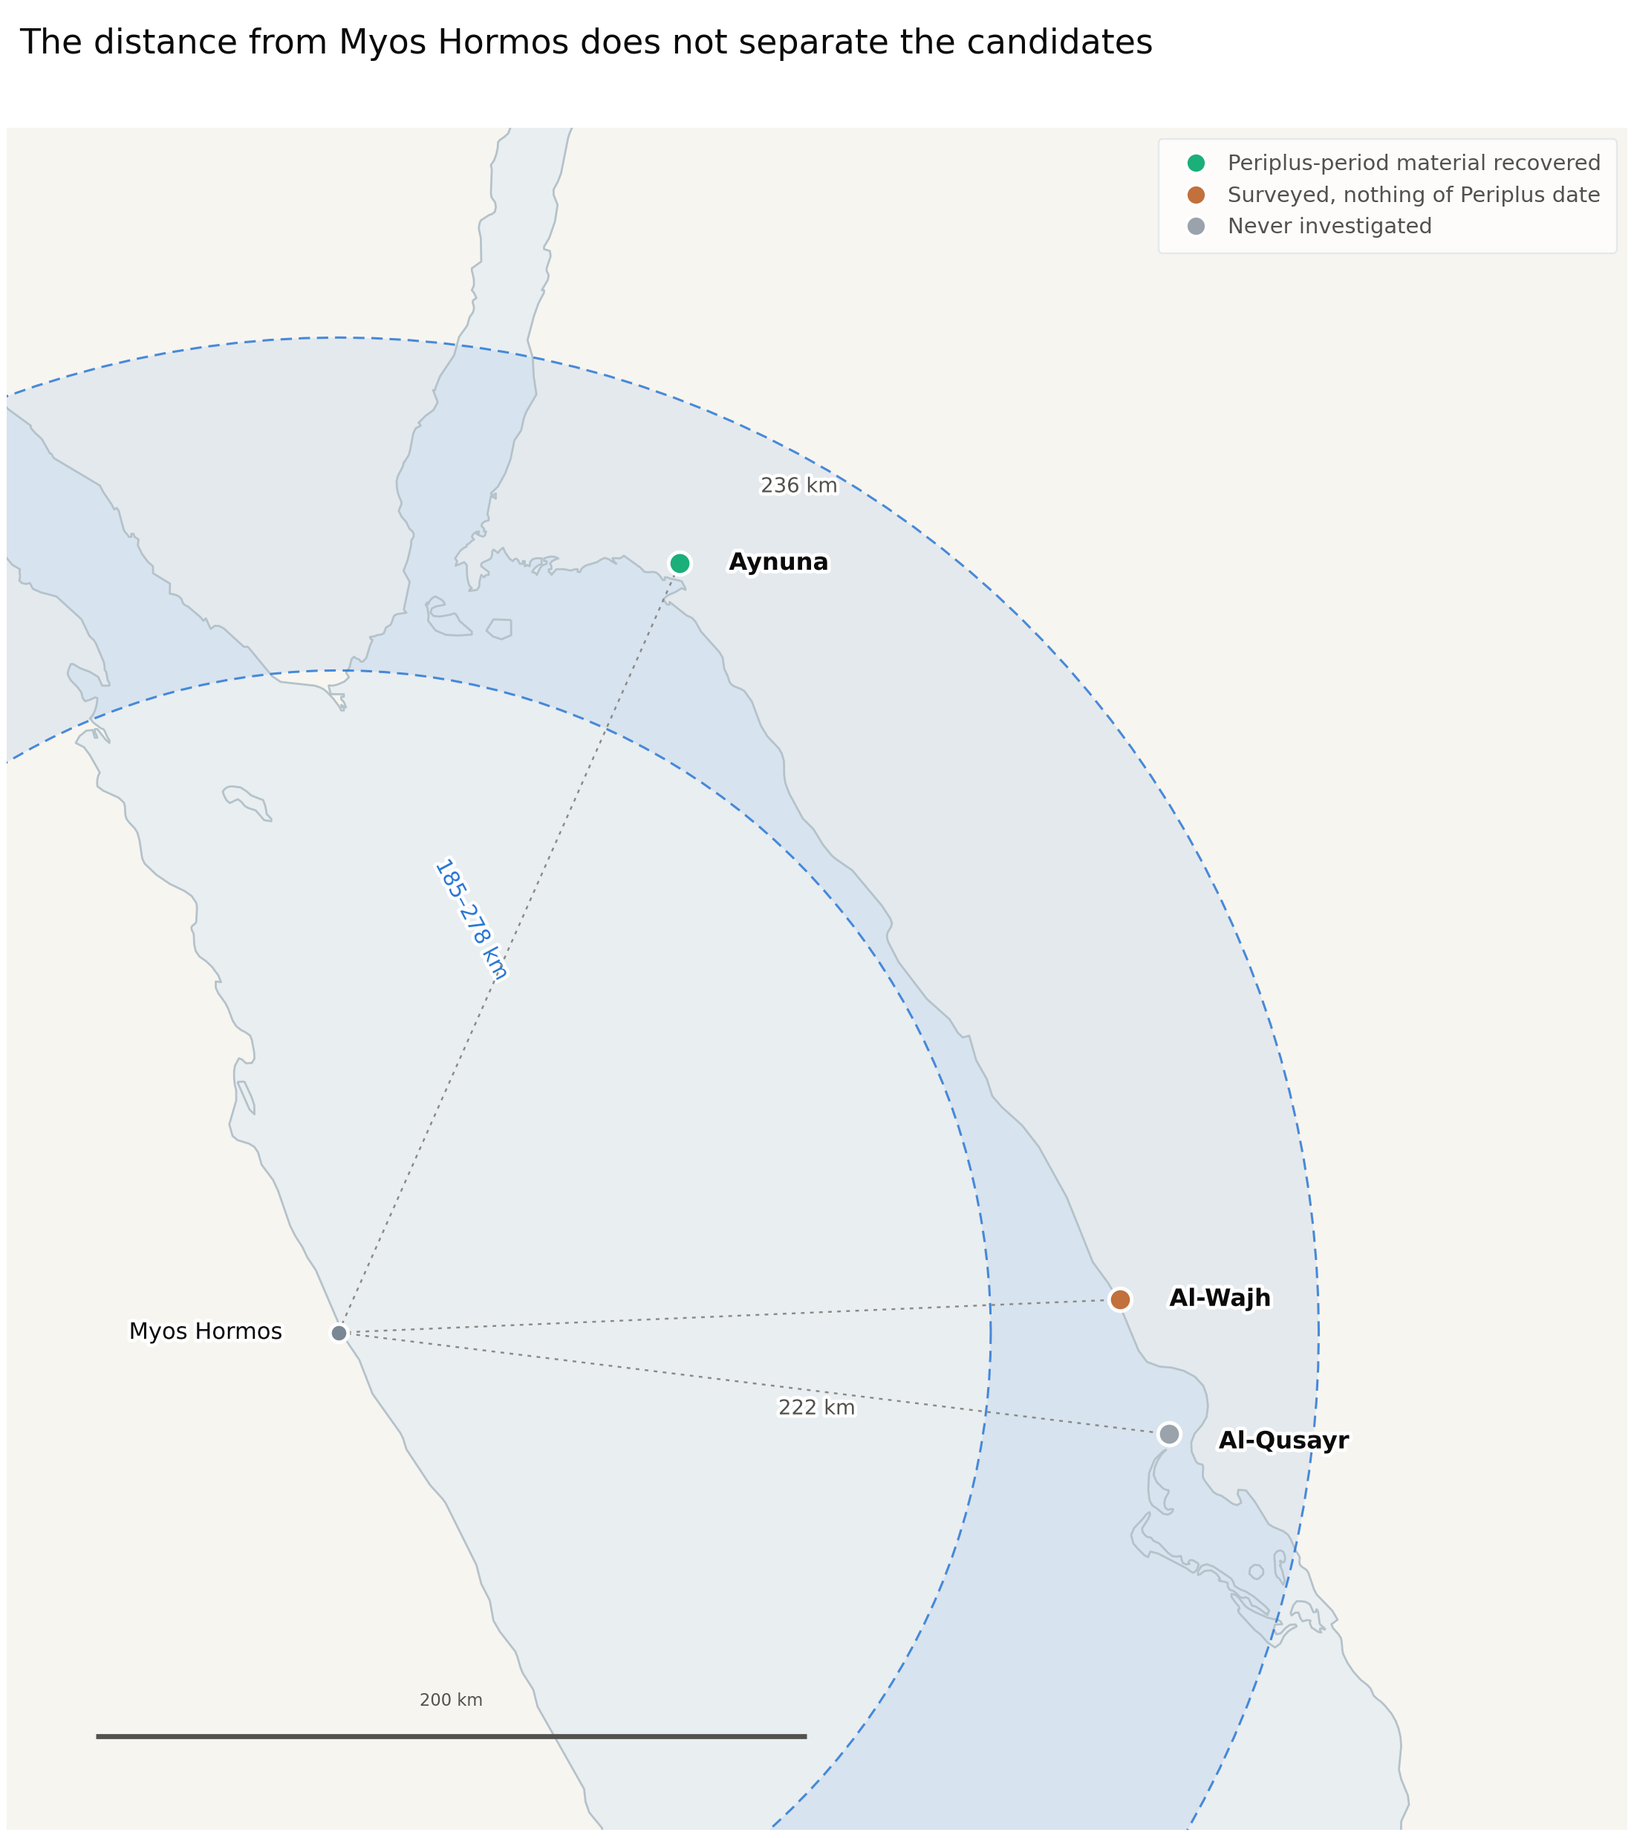
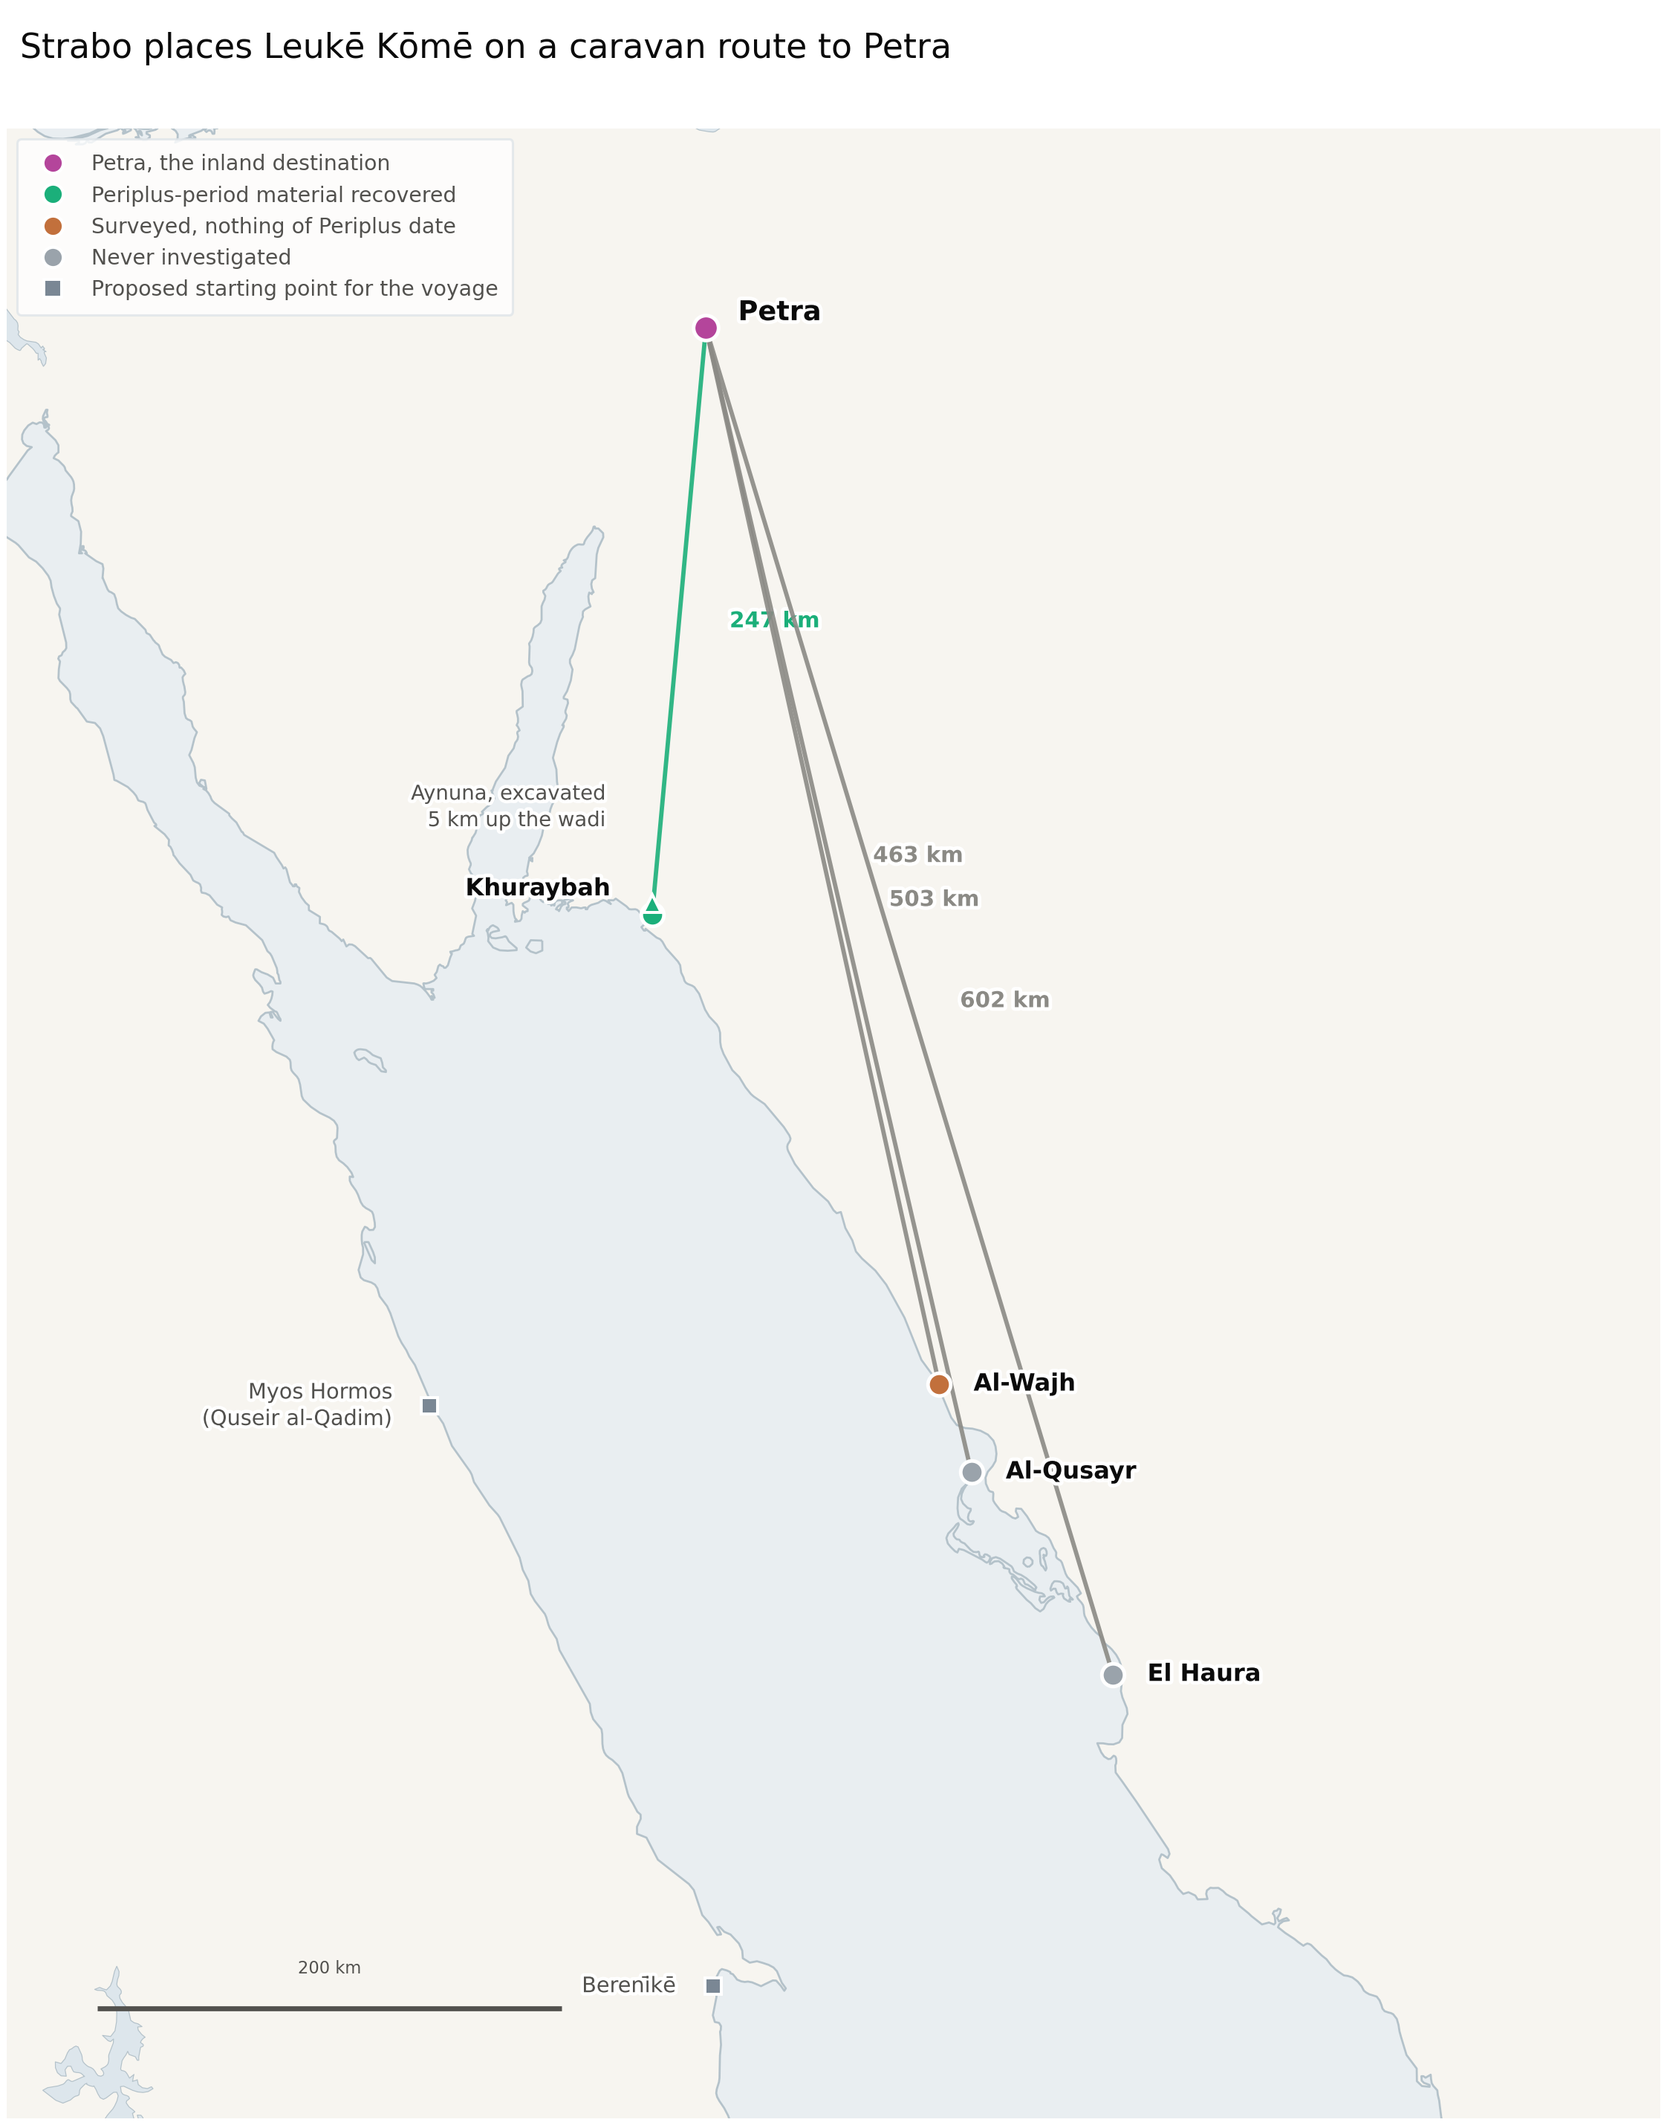
Rebuild the Leuke Kome map around Strabo's road to Petra
The map now carries Petra, Khuraybah on the water, Aynuna 5 km up the
wadi, and the overland distances: 247 km to Khuraybah against 463, 503
and 602 km to the southern candidates. That is Strabo's caravan-route
argument made quantitative, and it discriminates where the sailing
distance does not.

The assessment adds what is actually at Khuraybah, from Casson citing
Ingraham in Atlal 5, from Burton's 1878 description, and from
Gawlikowski's excavation report; records that Nappo never mentions
Khuraybah and calls the Aynuna evidence meager; and notes that al-Wajh
has three modern advocates in Gatier and Salles, Cuvigny and Hill.

diff --git a/src/make_slide_maps.py b/src/make_slide_maps.py
@@ -87,30 +87,69 @@ def legend(ax, items, loc="lower left"):
 
 # ---------------------------------------------------------------- Leuke Kome
 def leuke_kome():
-    """Nappo's own window, measured from the accepted site of Myos Hormos,
-    contains both candidates. The material does the separating, not the text."""
-    bbox = (33.3, 37.9, 24.9, 29.2)
-    fig, ax = frame(bbox, 10.0,
-                    "The distance from Myos Hormos does not separate the candidates")
-    mx, my = xy("myos_hormos")
-    band(ax, my, mx, 185, 278)
-    for k, lbl, st, dx, dy, ha in [
-            ("aynuna", "Aynuna", FOUND, 0.14, 0.0, "left"),
-            ("al_wajh", "Al-Wajh", TESTED, 0.14, 0.0, "left"),
-            ("al_qusayr_arabia", "Al-Qusayr", NONE, 0.14, -0.02, "left")]:
+    """Strabo's argument, which is about roads rather than sailing.
+
+    He puts Leuke Kome on a well-travelled caravan route to Petra, and has
+    goods carried from it to Petra and on to Rhinocolura. Casson, following
+    Beeston and Kirwan, notes this cannot be said of candidates as far south as
+    Haura or Yanbu. The overland distances make the point quantitative.
+
+    Khuraybah is the fishing village on Aynuna Bay; the excavated site sits
+    about 5 km inland up the wadi. Casson places the port at the former.
+    """
+    KHURAYBAH = (35.2103, 28.0566)
+    EL_HAURA = (37 + 13 / 60, 25 + 7 / 60)
+    PETRA = (35.4444, 30.3285)
+    bbox = (32.4, 39.6, 23.4, 31.1)
+    fig, ax = frame(bbox, 10.2,
+                    "Strabo places Leukē Kōmē on a caravan route to Petra")
+    for tgt, lbl, st, km_lbl in [
+            (KHURAYBAH, "Khuraybah", FOUND, 247),
+            (xy("al_wajh"), "Al-Wajh", TESTED, 463),
+            (xy("al_qusayr_arabia"), "Al-Qusayr", NONE, 503),
+            (EL_HAURA, "El Haura", NONE, 602)]:
+        col = FOUND if km_lbl < 300 else MUTED
+        ax.plot([PETRA[0], tgt[0]], [PETRA[1], tgt[1]], color=col, lw=1.9,
+                zorder=5, alpha=0.9, solid_capstyle="round")
+        mx, my = (PETRA[0] + tgt[0]) / 2, (PETRA[1] + tgt[1]) / 2
+        ax.text(mx + 0.22, my, f"{km_lbl} km", fontsize=9.6, color=col,
+                fontweight="bold", va="center", ha="left",
+                path_effects=[pe.withStroke(linewidth=3.2, foreground="white")])
+    mark(ax, PETRA[0], PETRA[1], "Petra", "#b4459b", 0.14, 0.06, "left",
+         size=12, ms=11, weight="bold")
+    mark(ax, KHURAYBAH[0], KHURAYBAH[1], "Khuraybah", FOUND, -0.18, 0.10, "right",
+         weight="bold")
+    ax.plot([xy("aynuna")[0]], [xy("aynuna")[1]], marker="^", ms=8, mfc=FOUND,
+            mec="white", mew=1.3, zorder=8, ls="none")
+    ax.text(xy("aynuna")[0] - 0.20, xy("aynuna")[1] + 0.30,
+            "Aynuna, excavated\n5 km up the wadi", fontsize=9, color=INK2, ha="right",
+            linespacing=1.35,
+            path_effects=[pe.withStroke(linewidth=3, foreground="white")])
+    for c, lbl, st in [(xy("al_wajh"), "Al-Wajh", TESTED),
+                       (xy("al_qusayr_arabia"), "Al-Qusayr", NONE),
+                       (EL_HAURA, "El Haura", NONE)]:
+        mark(ax, c[0], c[1], lbl, st, 0.15, 0.0, "left", weight="bold")
+    for k, lbl in [("myos_hormos", "Myos Hormos\n(Quseir al-Qadim)"),
+                   ("berenike", "Berenīkē")]:
         x, y = xy(k)
-        ax.plot([mx, x], [my, y], color=MUTED, lw=0.8, ls=(0, (2, 3)), zorder=4)
-        mark(ax, x, y, lbl, st, dx, dy, ha, weight="bold")
-    mark(ax, mx, my, "Myos Hormos", OTHER, -0.16, 0.0, "right", size=10, ms=8)
-    ax.text(35.55, 28.28, "236 km", fontsize=9, color=INK2, ha="center",
-            path_effects=[pe.withStroke(linewidth=3, foreground="white")])
-    ax.text(35.60, 25.95, "222 km", fontsize=9, color=INK2, ha="center",
-            path_effects=[pe.withStroke(linewidth=3, foreground="white")])
-    ax.text(34.62, 27.05, "185–278 km", fontsize=9.5, color=ARC, ha="center",
-            rotation=-62, path_effects=[pe.withStroke(linewidth=3, foreground="white")])
-    legend(ax, [("Periplus-period material recovered", FOUND),
-                ("Surveyed, nothing of Periplus date", TESTED),
-                ("Never investigated", NONE)], loc="upper right")
+        ax.plot([x], [y], marker="s", ms=7.5, mfc=OTHER, mec="white", mew=1.3,
+                zorder=8, ls="none")
+        ax.text(x - 0.16, y, lbl, ha="right", va="center", fontsize=9.4,
+                color=INK2, linespacing=1.35,
+                path_effects=[pe.withStroke(linewidth=3, foreground="white")])
+    h = [plt.Line2D([], [], marker="o", ls="none", ms=9, mfc="#b4459b",
+                    mec="white", mew=1.4, label="Petra, the inland destination"),
+         plt.Line2D([], [], marker="o", ls="none", ms=9, mfc=FOUND, mec="white",
+                    mew=1.4, label="Periplus-period material recovered"),
+         plt.Line2D([], [], marker="o", ls="none", ms=9, mfc=TESTED, mec="white",
+                    mew=1.4, label="Surveyed, nothing of Periplus date"),
+         plt.Line2D([], [], marker="o", ls="none", ms=9, mfc=NONE, mec="white",
+                    mew=1.4, label="Never investigated"),
+         plt.Line2D([], [], marker="s", ls="none", ms=8, mfc=OTHER, mec="white",
+                    mew=1.3, label="Proposed starting point for the voyage")]
+    lg = ax.legend(handles=h, loc="upper left", frameon=True, fontsize=9.3,
+                   labelcolor=INK2, borderpad=0.7)
+    lg.get_frame().set_edgecolor("#dfe5e9"); lg.get_frame().set_facecolor("white")
     bm.scalebar(ax, bbox)
     fig.savefig(OUT / "10_leuke_kome.png", dpi=220, facecolor="white")
     print("wrote 10_leuke_kome.png")

diff --git a/src/build_city_record.py b/src/build_city_record.py
@@ -73,13 +73,48 @@ Hormos, but measures from Abu Sha'ar, which is no longer accepted as Myos
 Hormos. Recomputed from Quseir al-Qadim, Aynuna at 236 km and al-Wajh at 222 km
 both fall inside the window he derives.
 
+**Khuraybah, and what is actually there.** Casson's note (p.163) is the fullest
+statement: the port "would have been not at 'Aynunah itself, which is a short
+distance inland, but at the modern village of Khuraybah on the water. Between
+the two sites archaeologists have identified signs of extensive occupation that
+date to the early centuries A.D. or even before: remains of impressive building
+complexes, a necropolis with over one hundred tombs, an abundance of
+Nabataean-Roman pottery," citing Ingraham and others in Atlal 5 (1981), 76-78.
+That is the same survey that produced the al-Wajh negative, so both halves of
+the comparison come from one field season.
+
+Burton saw it in 1878 and described "the remains called El-Khuraybah, the little
+ruin. The tenements, large and well-built, still show their bases; and on the
+ground are scattered fragments of sea-coloured glass varying in tint, like the
+Roman." Gawlikowski's excavation report locates the dug site, Lower Aynuna, on
+the western bank of Wadi Aynuna about 3 km from the harbour, notes that the
+ancient shoreline may have run closer, and observes that this "may explain the
+lack of port facilities visible in the fishing port of Khurayba." His 2022 paper
+also records a small fortified town on the cliff above the wadi breach that
+remains unexplored.
+
+**Nappo does not mention Khuraybah at all**, and he calls the Aynuna evidence
+"meager." He places the port "in the area of modern Aynuna, c.5 km from the
+coast," citing surveys that revealed "extensive architecture, including a tower
+and a necropolis." So the strongest material argument for Aynuna is made in the
+excavation report and in Casson's footnote rather than in the article the field
+cites for the identification.
+
+**Al-Wajh has more modern support than a single proposal.** Nappo's article is
+written to rebut Gatier and Salles, who suggested al-Wajh or possibly Qarna;
+Cuvigny, who argued from the Periplus description and the site's setting; and
+Hill, who argued from Chinese texts. Three independent modern advocates, and
+Qarna is a further candidate we do not carry.
+
 **The stronger textual argument is Strabo's, and it is about roads rather than
 sailing.** Strabo 16.781 has Leuke Kome on a well-travelled caravan route to
 Petra, and at 16.4.24 he describes merchandise carried "from Leuce Come to
 Petra, thence to Rhinocolura in Phoenicia near Egypt, and thence to other
 nations." Casson notes, following Beeston and Kirwan, that this can hardly be
 said of candidates as far south as Haura or Yanbu. A port that is a road-head
-for Petra has to be in the north.
+for Petra has to be in the north, and the overland distances make the point
+quantitative: Petra lies 247 km from Khuraybah, 463 km from al-Wajh, 503 km
+from al-Qusayr and 602 km from El Haura.
 
 **Strabo also brackets it with a second port.** His account of Aelius Gallus's
 expedition of 25 or 24 BC has the force landing at Leuke Kome and departing from
@@ -103,12 +138,6 @@ daily use, at exactly the Periplus horizon. Al-Wajh has been surveyed rather tha
 excavated, and the only Roman coins there are three nummi of Maximianus from
 AD 295 or 296 and three of Constantine I from the 320s, two and a half centuries
 too late. That negative is a surface negative and weaker than it sounds.
-
-**A refinement on the site itself.** Casson observes that the port "would have
-been not at 'Aynunah itself, which is a short distance inland, but at the modern
-village of Khuraybah on the water," with signs of extensive occupation of the
-early centuries AD between the two. Our coordinates point at Aynuna, and the
-harbour proper is Khuraybah.
 
 **The geometry is weak regardless.** Leuke Kome hangs off a single leg from a
 single securely located port, with no port beyond it to close the chain, so the

diff --git a/docs/cities/leuke-kome.md b/docs/cities/leuke-kome.md
@@ -29,13 +29,48 @@ Hormos, but measures from Abu Sha'ar, which is no longer accepted as Myos
 Hormos. Recomputed from Quseir al-Qadim, Aynuna at 236 km and al-Wajh at 222 km
 both fall inside the window he derives.
 
+**Khuraybah, and what is actually there.** Casson's note (p.163) is the fullest
+statement: the port "would have been not at 'Aynunah itself, which is a short
+distance inland, but at the modern village of Khuraybah on the water. Between
+the two sites archaeologists have identified signs of extensive occupation that
+date to the early centuries A.D. or even before: remains of impressive building
+complexes, a necropolis with over one hundred tombs, an abundance of
+Nabataean-Roman pottery," citing Ingraham and others in Atlal 5 (1981), 76-78.
+That is the same survey that produced the al-Wajh negative, so both halves of
+the comparison come from one field season.
+
+Burton saw it in 1878 and described "the remains called El-Khuraybah, the little
+ruin. The tenements, large and well-built, still show their bases; and on the
+ground are scattered fragments of sea-coloured glass varying in tint, like the
+Roman." Gawlikowski's excavation report locates the dug site, Lower Aynuna, on
+the western bank of Wadi Aynuna about 3 km from the harbour, notes that the
+ancient shoreline may have run closer, and observes that this "may explain the
+lack of port facilities visible in the fishing port of Khurayba." His 2022 paper
+also records a small fortified town on the cliff above the wadi breach that
+remains unexplored.
+
+**Nappo does not mention Khuraybah at all**, and he calls the Aynuna evidence
+"meager." He places the port "in the area of modern Aynuna, c.5 km from the
+coast," citing surveys that revealed "extensive architecture, including a tower
+and a necropolis." So the strongest material argument for Aynuna is made in the
+excavation report and in Casson's footnote rather than in the article the field
+cites for the identification.
+
+**Al-Wajh has more modern support than a single proposal.** Nappo's article is
+written to rebut Gatier and Salles, who suggested al-Wajh or possibly Qarna;
+Cuvigny, who argued from the Periplus description and the site's setting; and
+Hill, who argued from Chinese texts. Three independent modern advocates, and
+Qarna is a further candidate we do not carry.
+
 **The stronger textual argument is Strabo's, and it is about roads rather than
 sailing.** Strabo 16.781 has Leuke Kome on a well-travelled caravan route to
 Petra, and at 16.4.24 he describes merchandise carried "from Leuce Come to
 Petra, thence to Rhinocolura in Phoenicia near Egypt, and thence to other
 nations." Casson notes, following Beeston and Kirwan, that this can hardly be
 said of candidates as far south as Haura or Yanbu. A port that is a road-head
-for Petra has to be in the north.
+for Petra has to be in the north, and the overland distances make the point
+quantitative: Petra lies 247 km from Khuraybah, 463 km from al-Wajh, 503 km
+from al-Qusayr and 602 km from El Haura.
 
 **Strabo also brackets it with a second port.** His account of Aelius Gallus's
 expedition of 25 or 24 BC has the force landing at Leuke Kome and departing from
@@ -59,12 +94,6 @@ daily use, at exactly the Periplus horizon. Al-Wajh has been surveyed rather tha
 excavated, and the only Roman coins there are three nummi of Maximianus from
 AD 295 or 296 and three of Constantine I from the 320s, two and a half centuries
 too late. That negative is a surface negative and weaker than it sounds.
-
-**A refinement on the site itself.** Casson observes that the port "would have
-been not at 'Aynunah itself, which is a short distance inland, but at the modern
-village of Khuraybah on the water," with signs of extensive occupation of the
-early centuries AD between the two. Our coordinates point at Aynuna, and the
-harbour proper is Khuraybah.
 
 **The geometry is weak regardless.** Leuke Kome hangs off a single leg from a
 single securely located port, with no port beyond it to close the chain, so the

diff --git a/docs/cities/nelkynda.md b/docs/cities/nelkynda.md
@@ -88,7 +88,7 @@ in the fifty volumes of Indian Archaeology we were able to parse, and no candida
 | Kollam (Quilon) | 8.8900, 76.5900 | 1969–2015, 3 seasons | no |
 | Kottayam | 9.5920, 76.5220 | never excavated | unknown |
 | Neendakara | 8.9400, 76.5400 | never excavated | unknown |
-| Niranam | 9.2700, 76.5600 | never excavated | unknown |
+| Niranam | 9.3437, 76.5231 | never excavated | unknown |
 
 ## Ptolemy's coordinates
 
